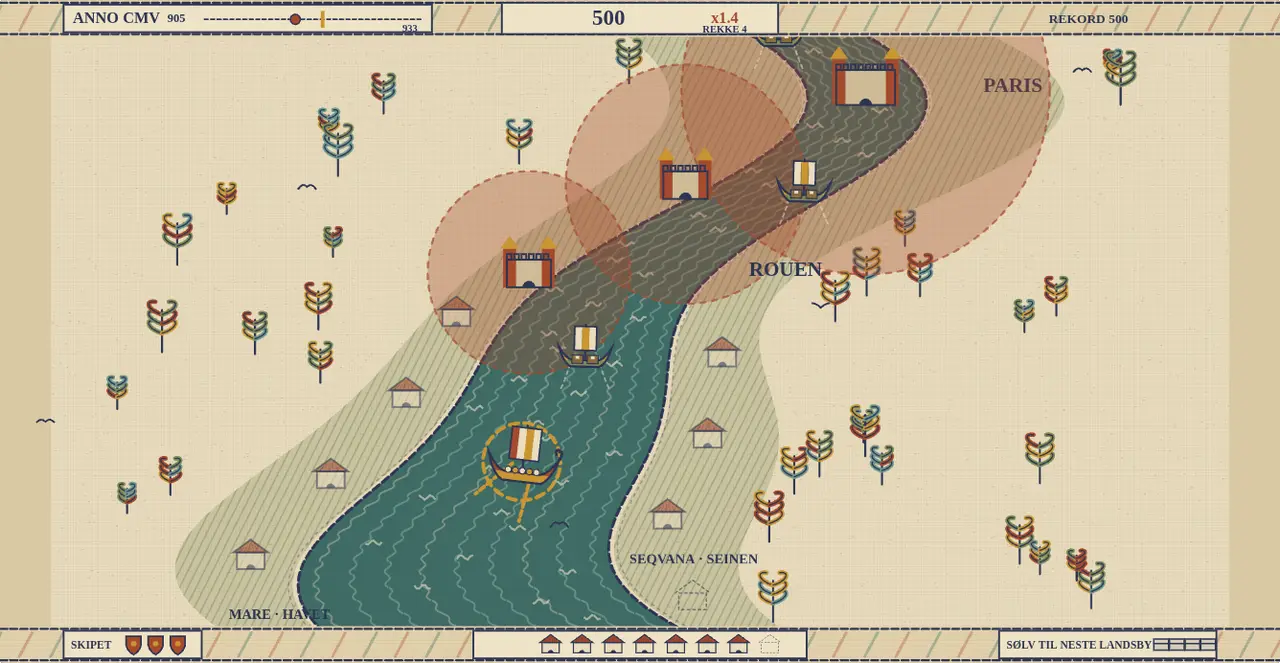
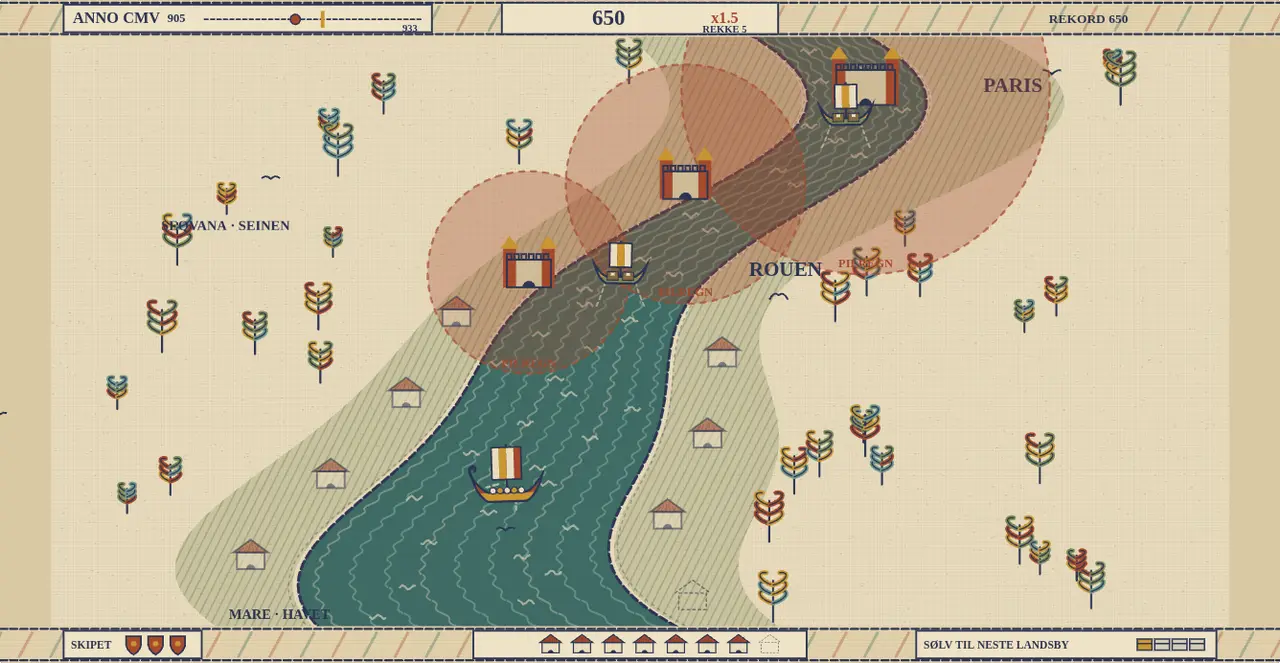
wip: seinen-snur etter vurdering 2 (sum 18)

diff --git a/src/components/microgames/seinen/draw.ts b/src/components/microgames/seinen/draw.ts
@@ -252,7 +252,7 @@ function makeBackground(): HTMLCanvasElement {
     ctx.textAlign = 'left';
     ctx.fillText('PARIS', riverX(PARIS_Y) + riverHalf(PARIS_Y) + 90, PARIS_Y + 36);
     ctx.font = `700 15px ${SERIF}`;
-    ctx.fillText('SEQVANA · SEINEN', riverX(560) + riverHalf(560) + 14, 612);
+    ctx.fillText('SEQVANA · SEINEN', 120, 250);
     ctx.fillText('MARE · HAVET', riverX(H) - riverHalf(H) - 150, H - 48);
     return c;
 }
@@ -275,12 +275,15 @@ interface ShipLook {
     shields: boolean;
     cargo?: boolean;
     crown?: boolean;
+    /** Et kors på seilet: kongens kristne folk - og Rollo etter dåpen. */
+    cross?: boolean;
 }
 
 const LOOK_PLAYER: ShipLook = { hull: [OCHRE, TERRA, OCHRE], sail: [TERRA, LINEN, OCHRE, LINEN], len: 70, dragon: true, shields: true };
-const LOOK_VIKING: ShipLook = { hull: [TERRA, INK, TERRA], sail: [TERRA, '#5c3b2e', TERRA, '#5c3b2e'], len: 56, dragon: true, shields: true };
+const LOOK_VASSAL: ShipLook = { ...LOOK_PLAYER, sail: [OCHRE, LINEN, OCHRE, LINEN], cross: true };
+const LOOK_VIKING: ShipLook = { hull: [TERRA, INK, TERRA], sail: [TERRA, '#8e3c24', TERRA], len: 56, dragon: true, shields: true };
 const LOOK_BARGE: ShipLook = { hull: [SAGE, OCHRE, SAGE], sail: [LINEN, OCHRE, LINEN], len: 52, dragon: false, shields: false, cargo: true };
-const LOOK_KING: ShipLook = { hull: [KING, LINEN, KING], sail: [KING, LINEN, KING, LINEN], len: 54, dragon: false, shields: false, cargo: true, crown: true };
+const LOOK_KING: ShipLook = { hull: [KING, LINEN, KING], sail: [KING], len: 64, dragon: false, shields: false, cargo: true, cross: true };
 
 /** Et skip i profil, som på teppet. dir = 1: baugen peker mot høyre. */
 function ship(ctx: CanvasRenderingContext2D, x: number, y: number, dir: number, look: ShipLook, t: number, tilt = 0) {
@@ -326,6 +329,12 @@ function ship(ctx: CanvasRenderingContext2D, x: number, y: number, dir: number, 
     ctx.strokeStyle = INK;
     ctx.lineWidth = 1.8;
     ctx.strokeRect(-sw / 2, -L * 0.74, sw, sh);
+    if (look.cross) {
+        const cy = -L * 0.74 + sh / 2;
+        ctx.fillStyle = look.sail[0] === KING ? LINEN : KING;
+        ctx.fillRect(-2.5, cy - sh * 0.38, 5, sh * 0.76);
+        ctx.fillRect(-sw * 0.36, cy - sh * 0.12, sw * 0.72, 5);
+    }
     if (look.crown) {
         // Kongens merke: en krone midt på seilet.
         ctx.fillStyle = OCHRE;
@@ -610,6 +619,10 @@ export function drawWorld(
             ctx.fillStyle = `rgba(166,74,46,${(0.06 + 0.34 * Math.min(1, g.t / P1)).toFixed(3)})`;
             ctx.fill();
             stitch(ctx, 'rgba(166,74,46,.7)', 2.4, [6, 7]);
+            ctx.fillStyle = TERRA;
+            ctx.font = `700 13px ${SERIF}`;
+            ctx.textAlign = 'center';
+            ctx.fillText('PILREGN', f.x, f.y + f.range - 8);
         }
         fort(ctx, f.x, f.y + 16, i === 0);
     });
@@ -628,6 +641,18 @@ export function drawWorld(
         } else if (i >= g.land) return;
         else if (!v.alive) st = v.lost === 'kongen' ? 'lost-k' : 'lost-v';
         house(ctx, v.x, v.y, st, t);
+        // Normandie vokser: landsbyene du holder, får flere hus år for år.
+        if (after && st === 'mine') {
+            const n = Math.min(3, Math.floor((g.year - 911) / 6));
+            const side = v.x < riverX(v.y) ? -1 : 1;
+            for (let k = 0; k < n; k++) {
+                ctx.save();
+                ctx.translate(v.x + side * (30 + k * 22), v.y + (k % 2 ? 10 : -8));
+                ctx.scale(0.62, 0.62);
+                house(ctx, 0, 0, 'mine', t);
+                ctx.restore();
+            }
+        }
     });
 
     // Pilsalvene: pilene flyr fra borgen mot ringen der de lander.
@@ -707,7 +732,7 @@ export function drawWorld(
     }
     const tiltP = Math.max(-0.35, Math.min(0.35, (s.vy / 330) * 0.35 * -nd));
     if (s.hit > 0 && Math.floor(t * 14) % 2 === 0) ctx.globalAlpha = 0.45;
-    ship(ctx, s.x, s.y + 14, nd, LOOK_PLAYER, t, tiltP);
+    ship(ctx, s.x, s.y + 14, nd, after ? LOOK_VASSAL : LOOK_PLAYER, t, tiltP);
     ctx.globalAlpha = 1;
 
     // Gnister og spon.
@@ -960,20 +985,116 @@ export function drawHud(ctx: CanvasRenderingContext2D, g: Game, tf: Transform, b
         ctx.restore();
     }
 
-    const rx = W - 250;
-    plate(ctx, rx, H - BORDER + 5, 236, 30);
+    const rx = W - 340;
+    plate(ctx, rx, H - BORDER + 5, 326, 30);
     ctx.fillStyle = INK;
     if (after) {
-        ctx.fillText('VREDE', rx + 8, by + 1);
-        for (let i = 0; i < ANGER_MAX; i++) crown(ctx, rx + 70 + i * 24, by, i < g.anger);
+        ctx.fillText('KONGENS VREDE', rx + 8, by + 1);
+        for (let i = 0; i < ANGER_MAX; i++) crown(ctx, rx + 132 + i * 24, by, i < g.anger);
         ctx.fillStyle = INK;
-        ctx.fillText('KISTER', rx + 124, by + 1);
-        for (let i = 0; i < CHESTS_PER_LIFE; i++) chest(ctx, rx + 180 + i * 20, by, i < g.chests);
+        ctx.fillText('SØLVKISTER', rx + 190, by + 1);
+        for (let i = 0; i < CHESTS_PER_LIFE; i++) chest(ctx, rx + 272 + i * 19, by, i < g.chests);
     } else {
         const n = g.stats.silver % SILVER_PER_LAND;
         const full = earned >= MAX_LAND;
         ctx.fillText(full ? 'SØLV - LANDET ER FULLT' : 'SØLV TIL NESTE LANDSBY', rx + 8, by + 1);
-        if (!full) for (let i = 0; i < SILVER_PER_LAND; i++) chest(ctx, rx + 176 + i * 17, by, i < n);
+        if (!full) for (let i = 0; i < SILVER_PER_LAND; i++) chest(ctx, rx + 248 + i * 19, by, i < n);
     }
+    ctx.restore();
+}
+
+// ---------------------------------------------------------------- 911
+
+/** Vendepunktet i 911 som et teppefelt midt på kartet: kongen, Rollo på kne og dåpen. p går 0-1. */
+export function drawTreaty(ctx: CanvasRenderingContext2D, tf: Transform, p: number) {
+    const a = Math.min(1, p * 5, (1 - p) * 5);
+    ctx.save();
+    ctx.translate(tf.ox, tf.oy);
+    ctx.scale(tf.s, tf.s);
+    ctx.globalAlpha = a * 0.45;
+    ctx.fillStyle = INK;
+    ctx.fillRect(-tf.ox / tf.s, 0, tf.w / tf.s, H);
+    ctx.globalAlpha = a;
+    const w = 600;
+    const h = 260;
+    const x = W / 2 - w / 2;
+    const y = H / 2 - h / 2 - 10;
+    ctx.fillStyle = LINEN;
+    ctx.fillRect(x, y, w, h);
+    band(ctx, x, x + w, y, 34, 0);
+    band(ctx, x, x + w, y + h - 34, 34, 0);
+    ctx.strokeStyle = INK;
+    ctx.lineWidth = 3;
+    ctx.strokeRect(x, y, w, h);
+    ctx.fillStyle = INK;
+    ctx.textAlign = 'center';
+    ctx.textBaseline = 'middle';
+    ctx.font = `700 19px ${SERIF}`;
+    ctx.fillText('HIC ROLLO BAPTIZATVR · ANNO 911', W / 2, y + 18);
+    ctx.font = `700 15px ${SERIF}`;
+    ctx.fillText('Rollo blir døpt og kongens vasall. Nå skal han forsvare landet.', W / 2, y + h - 17);
+    const gy = y + h - 44;
+    // Kongen med krone og blå kappe.
+    const kx = W / 2 - 150;
+    ctx.fillStyle = KING;
+    ctx.beginPath();
+    ctx.moveTo(kx - 26, gy);
+    ctx.lineTo(kx - 14, gy - 104);
+    ctx.lineTo(kx + 14, gy - 104);
+    ctx.lineTo(kx + 26, gy);
+    ctx.closePath();
+    ctx.fill();
+    ctx.strokeStyle = INK;
+    ctx.lineWidth = 2.4;
+    ctx.stroke();
+    ctx.fillStyle = LINEN;
+    ctx.beginPath();
+    ctx.arc(kx, gy - 118, 14, 0, Math.PI * 2);
+    ctx.fill();
+    ctx.stroke();
+    crown(ctx, kx, gy - 138, true);
+    ctx.strokeStyle = INK;
+    ctx.beginPath();
+    ctx.moveTo(kx + 16, gy - 84);
+    ctx.lineTo(kx + 58, gy - 70);
+    ctx.stroke();
+    // Døpefonten.
+    const fx = W / 2 + 10;
+    ctx.fillStyle = OCHRE;
+    ctx.beginPath();
+    ctx.moveTo(fx - 36, gy - 58);
+    ctx.lineTo(fx + 36, gy - 58);
+    ctx.lineTo(fx + 22, gy - 30);
+    ctx.lineTo(fx - 22, gy - 30);
+    ctx.closePath();
+    ctx.fill();
+    ctx.stroke();
+    ctx.fillRect(fx - 8, gy - 30, 16, 30);
+    ctx.strokeRect(fx - 8, gy - 30, 16, 30);
+    ctx.fillStyle = TEAL;
+    ctx.fillRect(fx - 32, gy - 62, 64, 6);
+    // Rollo på kne, med skjold på ryggen.
+    const rx = W / 2 + 120;
+    ctx.fillStyle = TERRA;
+    ctx.beginPath();
+    ctx.moveTo(rx - 22, gy);
+    ctx.lineTo(rx - 18, gy - 34);
+    ctx.lineTo(rx - 30, gy - 78);
+    ctx.lineTo(rx + 2, gy - 84);
+    ctx.lineTo(rx + 16, gy - 34);
+    ctx.lineTo(rx + 34, gy);
+    ctx.closePath();
+    ctx.fill();
+    ctx.stroke();
+    ctx.fillStyle = LINEN;
+    ctx.beginPath();
+    ctx.arc(rx - 18, gy - 94, 13, 0, Math.PI * 2);
+    ctx.fill();
+    ctx.stroke();
+    ctx.fillStyle = OCHRE;
+    ctx.beginPath();
+    ctx.arc(rx + 14, gy - 60, 15, 0, Math.PI * 2);
+    ctx.fill();
+    ctx.stroke();
     ctx.restore();
 }

diff --git a/src/components/microgames/SeinenSnur.tsx b/src/components/microgames/SeinenSnur.tsx
@@ -42,6 +42,7 @@ import {
     TERRA,
     burst,
     drawHud,
+    drawTreaty,
     drawWorld,
     fit,
     makeAssets,
@@ -146,6 +147,8 @@ const LOSS: Record<Cause, { title: string; msg: string; tip: string }> = {
 };
 
 const KING_BLUE = '#3b4f8f';
+/** Sekunder teppefeltet med dåpen i 911 står på skjermen. */
+const TREATY_S = 2.6;
 
 const LESSONS = {
     kjede: 'Vikingene seilte ofte i flåter på mange skip. En flåte som ble stoppet i elvemunningen, kom aldri opp til Paris.',
@@ -208,7 +211,7 @@ export default function SeinenSnur({ onComplete }: MicroGameProps) {
     const tfRef = useRef<Transform>(fit(1280, 720));
     const keys = useRef({ left: false, right: false, up: false, down: false });
     const pointerSteer = useRef(false);
-    const fx = useRef({ end: 0 });
+    const fx = useRef({ end: 0, treaty: 0 });
     const run = useRef({ firstVolley: false, firstBetray: false, firstBoard: false });
     const completedOnce = useRef(false);
     const outcome = useRef<{ won: boolean; score: number } | null>(null);
@@ -393,7 +396,8 @@ export default function SeinenSnur({ onComplete }: MicroGameProps) {
                 }
                 case 'treaty': {
                     sfx.bell();
-                    text.banner('ANNO 911 - AVTALEN', INK, 2.2);
+                    // Vendepunktet: spillet står stille mens teppefeltet med dåpen vises.
+                    fx.current.treaty = TREATY_S;
                     text.lesson('avtale', LESSONS.avtale, 1.5);
                     window.setTimeout(() => {
                         if (modeRef.current !== 'play') return;
@@ -406,7 +410,7 @@ export default function SeinenSnur({ onComplete }: MicroGameProps) {
                                 until: () => g.stats.stopped > 0 || g.stats.betrayed > 0,
                             }
                         );
-                    }, 2000);
+                    }, TREATY_S * 1000 + 300);
                     break;
                 }
                 case 'viking':
@@ -445,7 +449,8 @@ export default function SeinenSnur({ onComplete }: MicroGameProps) {
                     if (dx || dy) steerTo(g, g.ship.x + dx * 240, g.ship.y + dy * 240);
                     else if (!pointerSteer.current) steerTo(g, null);
                 }
-                update(g, dt * text.timeScale());
+                if (fx.current.treaty > 0) fx.current.treaty = Math.max(0, fx.current.treaty - dt);
+                else update(g, dt * text.timeScale());
                 handleEvents(g);
                 if (g.mode === 'lost') {
                     sfx.lose();
@@ -474,6 +479,7 @@ export default function SeinenSnur({ onComplete }: MicroGameProps) {
                 best: saveRef.current.best,
             });
             if (m !== 'menu' && m !== 'over') drawHud(ctx, g, tf, saveRef.current.best);
+            if (fx.current.treaty > 0 && m !== 'menu') drawTreaty(ctx, tf, 1 - fx.current.treaty / TREATY_S);
         },
         onHidden: () => {
             if (modeRef.current === 'play') pause();
@@ -484,6 +490,7 @@ export default function SeinenSnur({ onComplete }: MicroGameProps) {
         synth.unlock();
         game.g = newGame(Math.floor(Math.random() * 1e9));
         run.current = { firstVolley: false, firstBetray: false, firstBoard: false };
+        fx.current.treaty = 0;
         outcome.current = null;
         setResult(null);
         text.resetRun();
@@ -492,6 +499,14 @@ export default function SeinenSnur({ onComplete }: MicroGameProps) {
             if (modeRef.current !== 'play') return;
             text.banner('ANNO 885', INK, 1.6);
         }, 200);
+        window.setTimeout(() => {
+            if (modeRef.current !== 'play') return;
+            const g = game.g;
+            text.point('mus', 'Skipet følger musa', toScreen(() => [g.ship.x, g.ship.y - 50]), {
+                until: () => pointerSteer.current || botDriving.current,
+                seconds: 3,
+            });
+        }, 400);
         window.setTimeout(() => {
             if (modeRef.current !== 'play') return;
             const g = game.g;

diff --git a/src/components/microgames/seinen/game.ts b/src/components/microgames/seinen/game.ts
@@ -41,6 +41,9 @@ export const VOLLEY_R = 40;
 export const KING_U = -0.74;
 /** Så mange kongsbåter rammet før kongen tar tilbake en landsby. */
 export const ANGER_MAX = 2;
+/** Farten til vikingskipene (px/s) i 911, og hvor mye den øker til 933. */
+const VIKING_V0 = 56;
+const VIKING_DV = 72;
 /** Står skipet saktere enn dette når et vikingskip kommer borti, entrer de det. */
 export const BOARD_V = 90;
 
@@ -286,7 +289,7 @@ function spawnBarge(g: Game) {
     g.events.push({ e: 'barge', x: riverX(40), y: 40 });
 }
 
-export type Formation = 'en' | 'rekke' | 'linje' | 'kile';
+export type Formation = 'en' | 'rekke' | 'linje' | 'kile' | 'splitt';
 
 /**
  * Vikingskipene kommer i formasjoner: på rekke (etter hverandre), på linje (side om side)
@@ -294,11 +297,13 @@ export type Formation = 'en' | 'rekke' | 'linje' | 'kile';
  */
 function spawnViking(g: Game, n: number, form: Formation) {
     const f = Math.min(1, (g.t - P1) / P2);
-    const v = -(56 + 70 * f) * (0.92 + g.rng() * 0.16);
+    const v = -(VIKING_V0 + VIKING_DV * f) * (0.92 + g.rng() * 0.16);
     // Plassene i formasjonen, i piksler: [til siden, bakover]. Tett nok til kjedekrasj.
     const slots: [number, number][] = [];
     for (let i = 0; i < n; i++) {
         if (form === 'rekke' || form === 'en') slots.push([0, i * 50]);
+        // To rekker langs hver sin bredd samtidig: du rekker bare én av dem i full fart.
+        else if (form === 'splitt') slots.push([i % 2 ? 130 : -130, Math.floor(i / 2) * 50]);
         else if (form === 'linje') slots.push([((i % 3) - 1) * 48, Math.floor(i / 3) * 50]);
         else {
             // Kile: høvdingskipet først, så par bak på hver side.
@@ -366,7 +371,7 @@ function hit(g: Game, b: Boat, vx: number, vy: number, chain: number) {
             g.stats.betrayed++;
             g.events.push({ e: 'ram', kind: 'frank', x: b.x, y: b.y, points: 0, betrayal: true, chain });
             // Kongens sølv vokser med rekka: fristelsen er størst når du har mest å tape.
-            const silver = 25 * Math.max(4, g.combo);
+            const silver = 15 * Math.max(6, g.combo);
             g.score += silver;
             g.events.push({ e: 'points', n: silver, x: b.x, y: b.y });
             g.waveClean = false;
@@ -381,6 +386,8 @@ function hit(g: Game, b: Boat, vx: number, vy: number, chain: number) {
             g.events.push({ e: 'anger', x: b.x, y: b.y, anger: g.anger });
             if (g.anger >= ANGER_MAX) {
                 g.anger = 0;
+                // Kongen tar en landsby - og rekka ryker.
+                g.combo = 0;
                 const v = loseVillage(g, 'kongen');
                 if (v >= 0) g.events.push({ e: 'kingTakes', village: v });
             }
@@ -663,7 +670,7 @@ export function update(g: Game, dt: number) {
             let form: Formation = 'rekke';
             if (g.year >= 926) {
                 n = 5 + Math.floor(g.rng() * 2);
-                form = r < 0.4 ? 'kile' : r < 0.7 ? 'rekke' : 'linje';
+                form = r < 0.3 ? 'kile' : r < 0.55 ? 'rekke' : r < 0.75 ? 'splitt' : 'linje';
             } else if (g.year >= 920) {
                 n = 4 + Math.floor(g.rng() * 2);
                 form = r < 0.35 ? 'rekke' : r < 0.7 ? 'linje' : 'kile';
